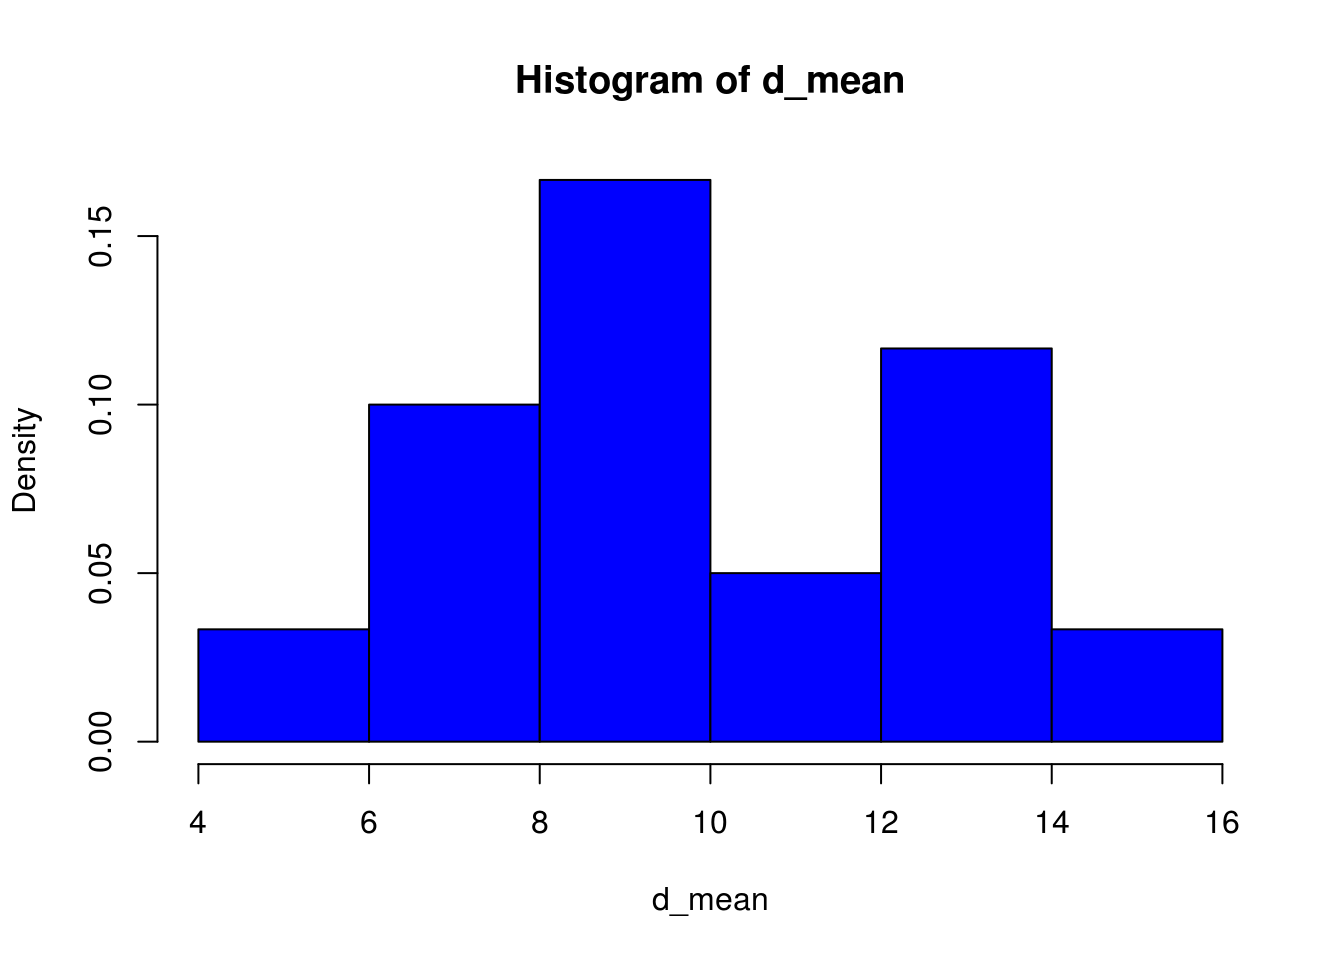
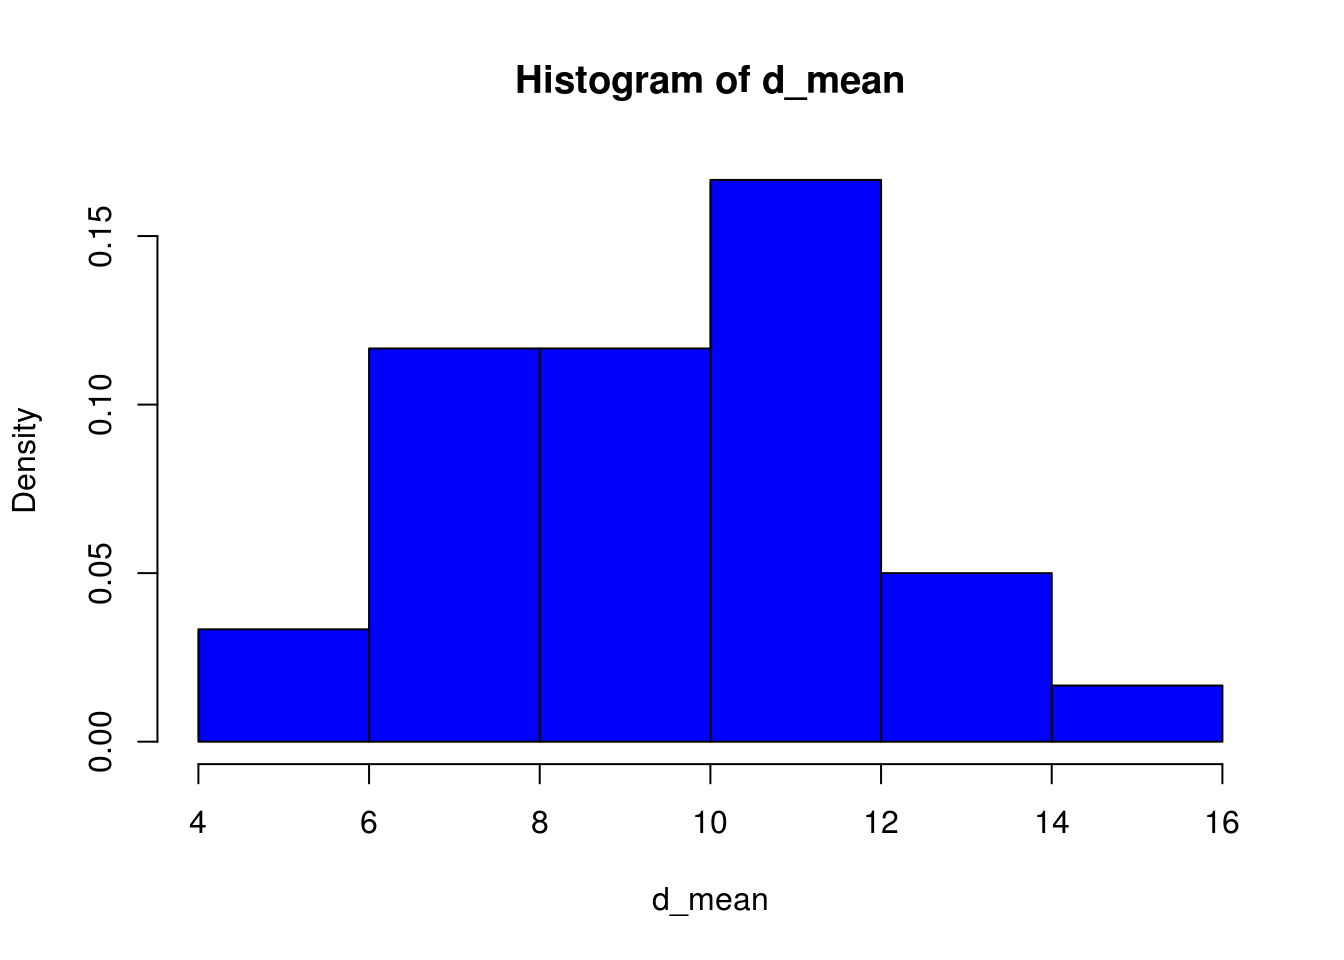
Go!

Changed region(s): [[0.25, 0.1875, 0.7812, 0.625], [0.7812, 0.6562, 0.9375, 0.7188]]

diff --git a/st2.html b/st2.html
@@ -258,8 +258,8 @@ print(Asesinatos)</code></pre>
 <li>En <code>R</code> y/o <code>RStudio</code> la función <code>max()</code> encuentra el valor más grande en un conjunto de datos. Use <code>max()</code> para encontrar el número máximo de homicidios. ¿Cuál fue el año y mes más violento?</li>
 </ol>
 <pre class="r"><code>maximo &lt;- max(Asesinatos$Homicidios)
-print(paste(&quot;El número máximo de homicidios fue&quot;,maximo))</code></pre>
-<pre><code>## [1] &quot;El número máximo de homicidios fue 136&quot;</code></pre>
+print(paste(&quot;El número máximo de homicidios entre 2016 y 2017 fue&quot;,maximo))</code></pre>
+<pre><code>## [1] &quot;El número máximo de homicidios entre 2016 y 2017 fue 136&quot;</code></pre>
 <pre class="r"><code>max_h &lt;- subset(Asesinatos, Homicidios == maximo)
 print(paste(&quot;El Año con más homicidios fue&quot;,max_h[1,1]))</code></pre>
 <pre><code>## [1] &quot;El Año con más homicidios fue 2017&quot;</code></pre>
@@ -269,19 +269,19 @@ print(paste(&quot;El Año con más homicidios fue&quot;,max_h[1,1]))</code></pre
 <li>En <code>R</code> y/o <code>RStudio</code> la función <code>min()</code> encuentra el valor más pequeño en un conjunto de datos. Use <code>min()</code> para encontrar el número mínimo de homicidios. ¿Cuál fue el año y mes menos violento?</li>
 </ol>
 <pre class="r"><code>minimo &lt;- min(Asesinatos$Homicidios)
-print(paste(&quot;El número mínimo de homicidios fue&quot;,minimo))</code></pre>
-<pre><code>## [1] &quot;El número mínimo de homicidios fue 61&quot;</code></pre>
+print(paste(&quot;El número mínimo de homicidios entre 2016 y 2017 fue&quot;,minimo))</code></pre>
+<pre><code>## [1] &quot;El número mínimo de homicidios entre 2016 y 2017 fue 61&quot;</code></pre>
 <pre class="r"><code>min_h &lt;- subset(Asesinatos, Homicidios == minimo)
 print(paste(&quot;El Año con menos homicidios fue&quot;,min_h[1,1]))</code></pre>
 <pre><code>## [1] &quot;El Año con menos homicidios fue 2017&quot;</code></pre>
-<pre class="r"><code>print(paste(&quot;El mes con menos homicidios fue&quot;,min_h[1,2]))</code></pre>
-<pre><code>## [1] &quot;El mes con menos homicidios fue Junio&quot;</code></pre>
+<pre class="r"><code>print(paste(&quot;El mes con menos homicidios de ese año fue&quot;,min_h[1,2]))</code></pre>
+<pre><code>## [1] &quot;El mes con menos homicidios de ese año fue Junio&quot;</code></pre>
 <ol start="3" style="list-style-type: lower-alpha">
 <li>En <code>R</code> y/o <code>RStudio</code> la función <code>sum()</code> calcula la suma total de un conjunto de datos. Use <code>sum()</code> para encontrar el número total de homicidios entre 2016 y 2017.</li>
 </ol>
 <pre class="r"><code>total_homicidios &lt;- sum(Asesinatos$Homicidios)
-print(paste(&quot;El número de homicidios totales entre 2016 y 2017 fue&quot;,total_homicidios))</code></pre>
-<pre><code>## [1] &quot;El número de homicidios totales entre 2016 y 2017 fue 2395&quot;</code></pre>
+print(paste(&quot;El número de homicidios total entre 2016 y 2017 fue&quot;,total_homicidios))</code></pre>
+<pre><code>## [1] &quot;El número de homicidios total entre 2016 y 2017 fue 2395&quot;</code></pre>
 </div>
 <div id="divida-la-tabla-de-datos-que-construyo-en-el-ejercicio-1-en-dos-partes.-la-tabla-uno-sera-una-tabla-con-la-informacion-para-el-ano-2016-la-tabla-dos-con-la-informacion-de-2017." class="section level4">
 <h4>3. Divida la tabla de datos que construyó en el <strong>ejercicio 1</strong> en dos partes. La tabla uno será una tabla con la información para el año 2016, la tabla dos con la información de 2017.</h4>
@@ -319,7 +319,7 @@ print(año2017)</code></pre>
 <ol style="list-style-type: lower-alpha">
 <li>Encontrar el número máximo de homicidios en cada uno de los años. ¿Cuáles son los meses con mayor número de homicidios en cada año?</li>
 </ol>
-<p><strong>Información para el año 2016</strong></p>
+<p><strong>Información del máximo de homicidios para el año 2016</strong></p>
 <pre class="r"><code>maximo2016 &lt;- max(año2016$Homicidios)
 maximo2016</code></pre>
 <pre><code>## [1] 134</code></pre>
@@ -331,22 +331,22 @@ max_h_2016</code></pre>
 ## 6 2016 Junio        134</code></pre>
 <pre class="r"><code>print(paste(&quot;El mes con más homicidios fue&quot;,max_h_2016[1,2]))</code></pre>
 <pre><code>## [1] &quot;El mes con más homicidios fue Junio&quot;</code></pre>
-<p><strong>Información para el año 2017</strong></p>
+<p><strong>Información del máximo de homicidios para el año 2017</strong></p>
 <pre class="r"><code>maximo2017 &lt;- max(año2017$Homicidios)
 maximo2017</code></pre>
 <pre><code>## [1] 136</code></pre>
 <pre class="r"><code>print(paste(&quot;El número máximo de  homicidios en 2017 fue&quot;,maximo2017))</code></pre>
 <pre><code>## [1] &quot;El número máximo de  homicidios en 2017 fue 136&quot;</code></pre>
-<pre class="r"><code>max_h_2017 &lt;- subset(año2016, Homicidios == maximo2017)
+<pre class="r"><code>max_h_2017 &lt;- subset(año2017, Homicidios == maximo2017)
 max_h_2017</code></pre>
-<pre><code>## [1] Año        Mes        Homicidios
-## &lt;0 rows&gt; (or 0-length row.names)</code></pre>
-<pre class="r"><code>print(paste(&quot;El mes con menos homicidios en 2017 fue&quot;,max_h_2016[1,2]))</code></pre>
-<pre><code>## [1] &quot;El mes con menos homicidios en 2017 fue Junio&quot;</code></pre>
+<pre><code>##     Año   Mes Homicidios
+## 16 2017 Abril        136</code></pre>
+<pre class="r"><code>print(paste(&quot;El mes con más homicidios en 2017 fue&quot;,max_h_2017[1,2]))</code></pre>
+<pre><code>## [1] &quot;El mes con más homicidios en 2017 fue Abril&quot;</code></pre>
 <ol start="2" style="list-style-type: lower-alpha">
 <li>Encontrar el número mínimo de homicidios en cada uno de los años. ¿Cuáles son los meses con menor número de homicidios en cada año?</li>
 </ol>
-<p><strong>Información para el año 2016</strong></p>
+<p><strong>Información del mínimo de homicidios para el año 2017</strong></p>
 <pre class="r"><code>minimo2016 &lt;- min(año2016$Homicidios)
 minimo2016</code></pre>
 <pre><code>## [1] 75</code></pre>
@@ -358,18 +358,18 @@ min_h_2016</code></pre>
 ## 8 2016 Agosto         75</code></pre>
 <pre class="r"><code>print(paste(&quot;El mes con menos homicidios en 2016 fue&quot;,min_h_2016[1,2]))</code></pre>
 <pre><code>## [1] &quot;El mes con menos homicidios en 2016 fue Agosto&quot;</code></pre>
-<p><strong>Información para el año 2017</strong></p>
+<p><strong>Información del mínimo de homicidios para el año 2017</strong></p>
 <pre class="r"><code>minimo2017 &lt;- min(año2017$Homicidios)
 minimo2017</code></pre>
 <pre><code>## [1] 61</code></pre>
-<pre class="r"><code>print(paste(&quot;El número mínimo de  homicidios en 2017 fue&quot;,minimo2016))</code></pre>
-<pre><code>## [1] &quot;El número mínimo de  homicidios en 2017 fue 75&quot;</code></pre>
-<pre class="r"><code>min_h_2017 &lt;- subset(año2016, Homicidios == minimo2016)
+<pre class="r"><code>print(paste(&quot;El número mínimo de  homicidios en 2017 fue&quot;,minimo2017))</code></pre>
+<pre><code>## [1] &quot;El número mínimo de  homicidios en 2017 fue 61&quot;</code></pre>
+<pre class="r"><code>min_h_2017 &lt;- subset(año2017, Homicidios == minimo2017)
 min_h_2017</code></pre>
-<pre><code>##    Año    Mes Homicidios
-## 8 2016 Agosto         75</code></pre>
+<pre><code>##     Año   Mes Homicidios
+## 18 2017 Junio         61</code></pre>
 <pre class="r"><code>print(paste(&quot;El mes con menos homicidios en 2017 fue&quot;,min_h_2017[1,2]))</code></pre>
-<pre><code>## [1] &quot;El mes con menos homicidios en 2017 fue Agosto&quot;</code></pre>
+<pre><code>## [1] &quot;El mes con menos homicidios en 2017 fue Junio&quot;</code></pre>
 <ol start="3" style="list-style-type: lower-alpha">
 <li>Se dice que un año es más violento que otro por tener un número total de homicidios mayor. ¿Cuál fue el año más violento?</li>
 </ol>
@@ -379,12 +379,12 @@ sum_h2016</code></pre>
 <pre class="r"><code>sum_h2017 &lt;- sum(año2017$Homicidios)
 sum_h2017</code></pre>
 <pre><code>## [1] 1150</code></pre>
-<pre class="r"><code>if(sum_h2017 &gt; sum_h2016){
+<pre class="r"><code>if (sum_h2017 &gt; sum_h2016) {
   print(paste(&quot;El año más violento fue 2017 con&quot;,sum_h2017,&quot;homicidios&quot;))
-}else {
-  print(paste(&quot;El año más violento fue 2016 con&quot;,sum_h2016,&quot;homicidios&quot;))
+} else {
+  print(paste(&quot;El año más violento fue 2016 con&quot;,sum_h2016,&quot;homicidios :(&quot;))
 }</code></pre>
-<pre><code>## [1] &quot;El año más violento fue 2016 con 1245 homicidios&quot;</code></pre>
+<pre><code>## [1] &quot;El año más violento fue 2016 con 1245 homicidios :(&quot;</code></pre>
 <div class="figure">
 <img src="blanco.png" />
 

diff --git a/d_muestral.html b/d_muestral.html
@@ -260,16 +260,16 @@ for (i in 1:30){
 }
 #d_mean
 mean(d_mean)</code></pre>
-<pre><code>## [1] 9.941667</code></pre>
+<pre><code>## [1] 9.725</code></pre>
 <pre class="r"><code>sd(d_mean)</code></pre>
-<pre><code>## [1] 2.863777</code></pre>
+<pre><code>## [1] 2.455948</code></pre>
 <ol start="3" style="list-style-type: decimal">
 <li>Tercero, calculamos las medias de todas esas muestras y tratamos de ver gráficamente mediante un histograma al menos si hay acercamiento a Normalidad.</li>
 </ol>
 <pre class="r"><code>mean(d_mean)</code></pre>
-<pre><code>## [1] 9.941667</code></pre>
+<pre><code>## [1] 9.725</code></pre>
 <pre class="r"><code>sd(d_mean)</code></pre>
-<pre><code>## [1] 2.863777</code></pre>
+<pre><code>## [1] 2.455948</code></pre>
 <p>Interpretación: Notar que la media de las medias muestrales es <span class="math inline">\(\mu_{\bar{X}}=10.075\)</span> que está bien cerca de la media poblacional . Además la desviación estándar de la media muestral es 2.806 mientras que <span class="math inline">\(\sigma/\sqrt{n}=5.418/2=2.709\)</span>. Ambos valores también están relativamente cerca. El histograma si está un poco alejado de la normalidad. Si se incrementa el tamaño de las muestras se puede notar una mejor aproximación a la Normal.</p>
 <pre class="r"><code>hist(d_mean,col = &quot;blue&quot;,freq = F)</code></pre>
 <p><img src="d_muestral_files/figure-html/unnamed-chunk-4-1.png" width="672" /></p>

diff --git a/tareas.html b/tareas.html
@@ -219,8 +219,8 @@ $(document).ready(function () {
 <div id="tarea-1.-fecha-limite-viernes-24-08-solucion-tarea-1" class="section level3">
 <h3><a href="https://didier-murillo.netlify.com/t1">Tarea 1. Fecha límite: Viernes-24-08</a> – <a href="https://didier-murillo.netlify.com/st1">Solución Tarea 1</a></h3>
 </div>
-<div id="tarea-2.-fecha-limite-viernes-31-08" class="section level3">
-<h3><a href="https://didier-murillo.netlify.com/t2">Tarea 2. Fecha límite: Viernes-31-08</a></h3>
+<div id="tarea-2.-fecha-limite-viernes-31-08-solucion-tarea-2" class="section level3">
+<h3><a href="https://didier-murillo.netlify.com/t2">Tarea 2. Fecha límite: Viernes-31-08</a> – <a href="https://didier-murillo.netlify.com/st2">Solución Tarea 2</a></h3>
 </div>
 <div id="tarea-3.-fecha-limite-viernes-07-09" class="section level3">
 <h3><a href="https://didier-murillo.netlify.com/t3">Tarea 3. Fecha límite: Viernes-07-09</a></h3>

diff --git a/Medidas.html b/Medidas.html
@@ -247,7 +247,7 @@ $(document).ready(function () {
 </div>
 <p><strong>Ejemplo.</strong> Supongamos que los siguientes datos representan el precio de 9 carros de alta gama en miles.</p>
 <p>74, 82, 107, 92, 125, 130, 118, 140, 153.</p>
-<p>Hallar el precio promedio de las casas.</p>
+<p>Hallar el precio promedio de los autos.</p>
 <p>Para encontrar la media o promedio entonces tenemos que sumar todos los datos y luego dividir el resultado por el número de observaciones en la muestra.</p>
 <p><span class="math display">\[\bar{X}=\frac{74 + 82 + 107 + 92 + 125 + 130 + 118 + 140 + 153}{9}=\frac{1021}{9}=113.44\]</span></p>
 <p>El resultado de la media para este caso se interpreta como que el <strong>valor promedio</strong> de los carros de gama alta es de <span class="math inline">\(113.44\)</span>.</p>

diff --git a/correlacion.html b/correlacion.html
@@ -262,7 +262,7 @@ plot(x,y,pch=18)</code></pre>
 <p><img src="correlacion_files/figure-html/unnamed-chunk-4-1.png" width="672" /></p>
 <p>¿Cuánto es la correlación entre <code>x</code> e <code>y</code>?</p>
 <pre class="r"><code>cor(x,y)</code></pre>
-<pre><code>## [1] -0.04862987</code></pre>
+<pre><code>## [1] -0.05086107</code></pre>
 <p>El coeficiente de correlación es similar a la media, mediana, desviación estándar, Q1, etc .: viene en dos versiones:</p>
 <ul>
 <li><p>Es una estadístico cuando se encuentra a partir de una muestra</p></li>

diff --git a/dNormal.html b/dNormal.html
@@ -343,8 +343,8 @@ Notas &lt;- rnorm(30,75,10)
 # Redondeando los resultados
 Notas &lt;- round(Notas,digits = 0)
 print(Notas)</code></pre>
-<pre><code>##  [1] 66 73 60 73 74 62 76 75 84 76 70 79 80 71 69 72 67 63 80 72 76 96 75
-## [24] 65 70 74 73 59 77 78</code></pre>
+<pre><code>##  [1] 76 79 79 58 73 78 81 72 68 61 68 74 69 81 79 59 78 80 72 75 71 72 65
+## [24] 79 63 69 66 66 71 70</code></pre>
 <p><strong>¿Cuál es la probabilidad que un estudiante tenga más 73 en la nota?</strong></p>
 <hr />
 <hr />
